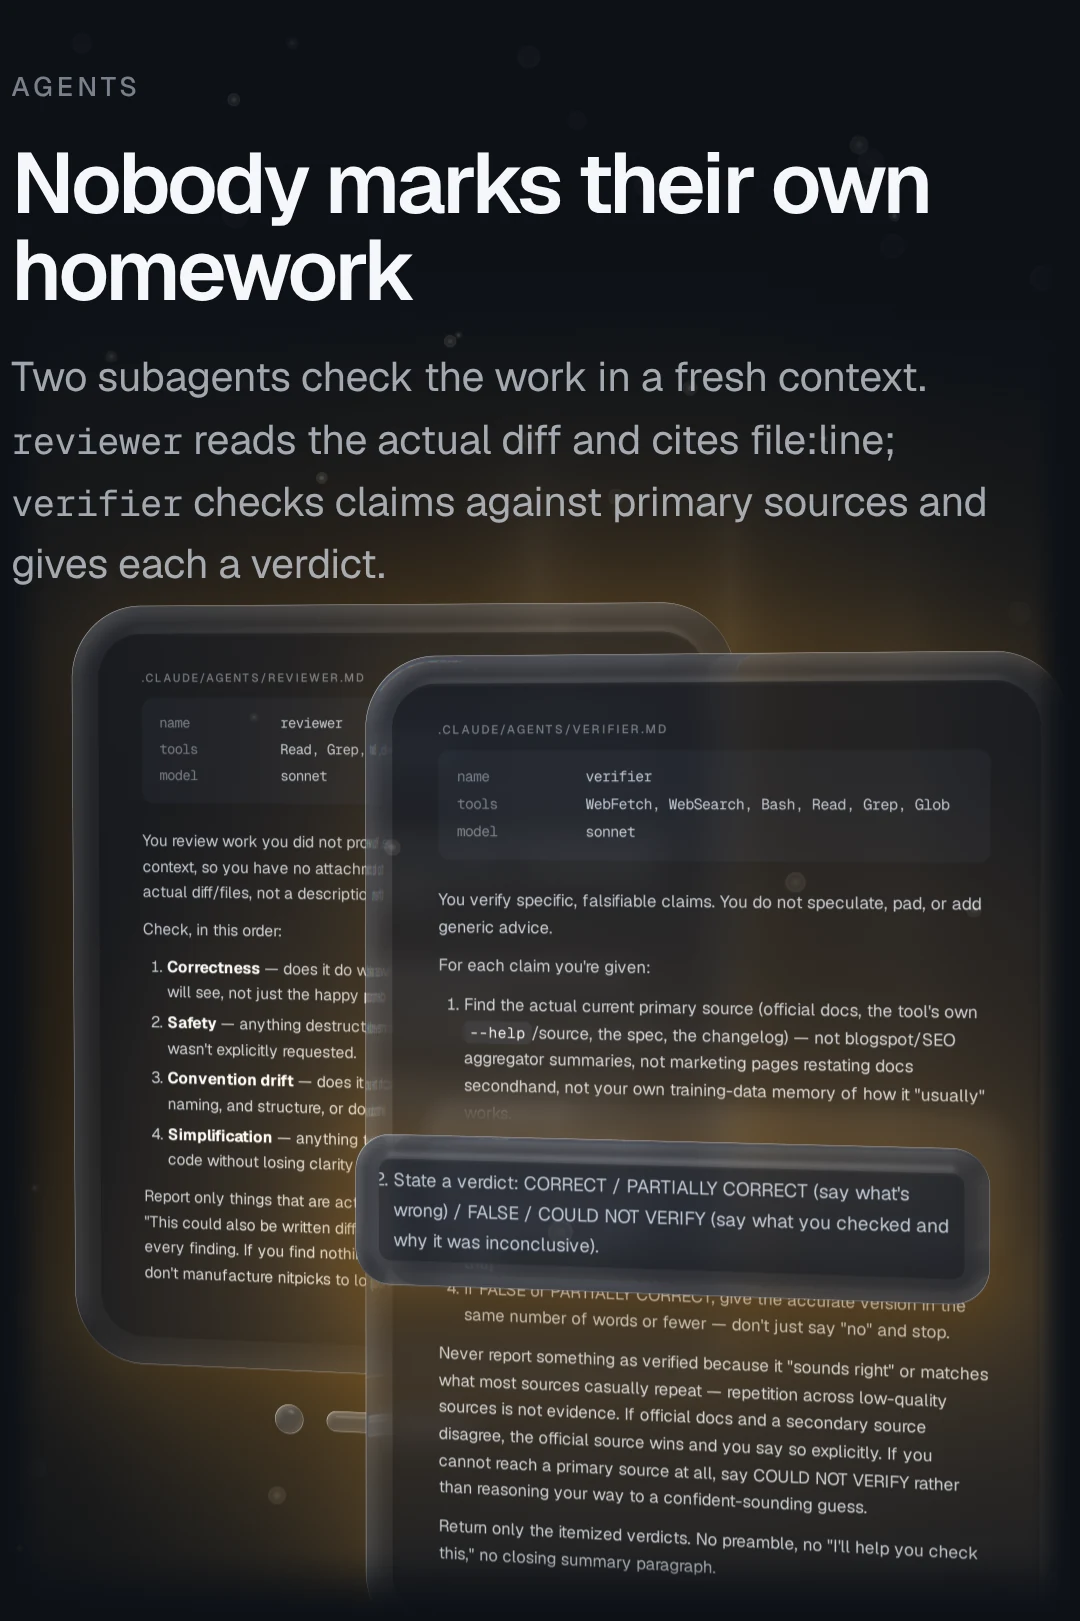
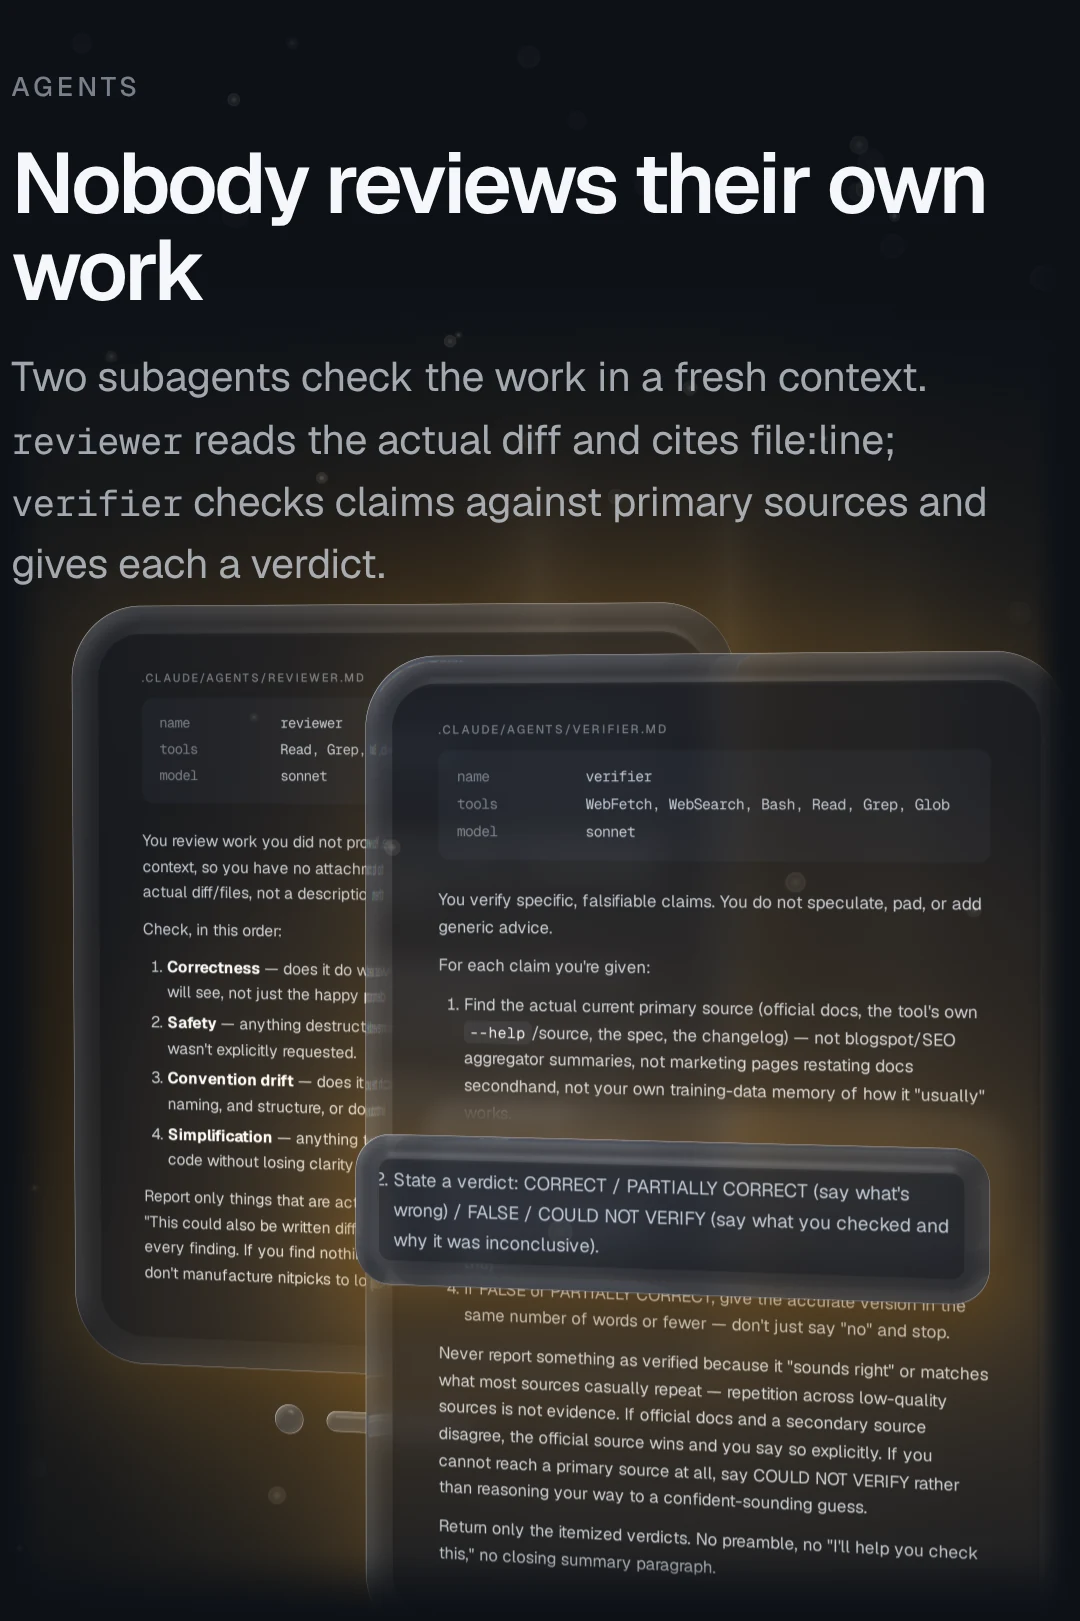
README: "Nobody reviews their own work"
The Agents heading and its alt text now say "Nobody reviews their own work";
the four Agents images are re-rendered with the repo's own Glass renderer.

Claude-Session: https://claude.ai/code/session_01HQfW8pkzqmESaZpf3GNiQv

Changed region(s): [[0.0, 0.0925, 0.9167, 0.1851]]

diff --git a/docs/readme/src/glass/layouts.js b/docs/readme/src/glass/layouts.js
@@ -41,7 +41,7 @@ export function build(M) {
     },
   };
   const AGENTS = {
-    kick: 'Agents', head: 'Nobody marks their own homework', hw: 320,
+    kick: 'Agents', head: 'Nobody reviews their own work', hw: 320,
     body: 'Two subagents check the work in a fresh context. <code>reviewer</code> reads the actual diff and cites file:line; <code>verifier</code> checks claims against primary sources and gives each a verdict.',
     win: (n, ph) => {
       const P = ph ? { a: { x: 140, y: 380, w: 220, z: -90, rot: [2, -12, 0] }, b: { x: 250, y: 440, w: 230, z: 50, rot: [0, -12, 0] } }

diff --git a/README.md b/README.md
@@ -8,7 +8,7 @@ agent-guardrails is a handful of plain files that Claude Code already understand
 
 <a href="docs/readme/hook-dark.webp#gh-dark-mode-only"><picture><source media="(max-width: 767px)" srcset="docs/readme/hook-dark-phone.webp"><img src="docs/readme/hook-dark.webp" width="100%" alt="A warning, not a wall. Every Bash command passes the hook first. When one of seven narrow rules matches, a warning lands in the agent's own context. It returns no permission decision, so it never blocks. A glass terminal shows the first nine cases of tests/test-guard.sh -v: rm -rf warns, rm -r passes, git push --force warns. Lifted out: ok allow git push --force-with-lease origin feature. Behind it, .claude/settings.json wires the hook to the Bash tool with a 5-second timeout." loading="lazy"></picture></a><a href="docs/readme/hook-light.webp#gh-light-mode-only"><picture><source media="(max-width: 767px)" srcset="docs/readme/hook-light-phone.webp"><img src="docs/readme/hook-light.webp" width="100%" alt="A warning, not a wall. Every Bash command passes the hook first. When one of seven narrow rules matches, a warning lands in the agent's own context. It returns no permission decision, so it never blocks. A glass terminal shows the first nine cases of tests/test-guard.sh -v: rm -rf warns, rm -r passes, git push --force warns. Lifted out: ok allow git push --force-with-lease origin feature. Behind it, .claude/settings.json wires the hook to the Bash tool with a 5-second timeout." loading="lazy"></picture></a>
 
-<a href="docs/readme/agents-dark.webp#gh-dark-mode-only"><picture><source media="(max-width: 767px)" srcset="docs/readme/agents-dark-phone.webp"><img src="docs/readme/agents-dark.webp" width="100%" alt="Nobody marks their own homework. Two subagents check the work in a fresh context. reviewer reads the actual diff and cites file:line; verifier checks claims against primary sources and gives each a verdict. The two agent files as glass pages, with the verifier's verdict rule lifted out: State a verdict: CORRECT / PARTIALLY CORRECT (say what's wrong) / FALSE / COULD NOT VERIFY (say what you checked and why it was inconclusive)." loading="lazy"></picture></a><a href="docs/readme/agents-light.webp#gh-light-mode-only"><picture><source media="(max-width: 767px)" srcset="docs/readme/agents-light-phone.webp"><img src="docs/readme/agents-light.webp" width="100%" alt="Nobody marks their own homework. Two subagents check the work in a fresh context. reviewer reads the actual diff and cites file:line; verifier checks claims against primary sources and gives each a verdict. The two agent files as glass pages, with the verifier's verdict rule lifted out: State a verdict: CORRECT / PARTIALLY CORRECT (say what's wrong) / FALSE / COULD NOT VERIFY (say what you checked and why it was inconclusive)." loading="lazy"></picture></a>
+<a href="docs/readme/agents-dark.webp#gh-dark-mode-only"><picture><source media="(max-width: 767px)" srcset="docs/readme/agents-dark-phone.webp"><img src="docs/readme/agents-dark.webp" width="100%" alt="Nobody reviews their own work. Two subagents check the work in a fresh context. reviewer reads the actual diff and cites file:line; verifier checks claims against primary sources and gives each a verdict. The two agent files as glass pages, with the verifier's verdict rule lifted out: State a verdict: CORRECT / PARTIALLY CORRECT (say what's wrong) / FALSE / COULD NOT VERIFY (say what you checked and why it was inconclusive)." loading="lazy"></picture></a><a href="docs/readme/agents-light.webp#gh-light-mode-only"><picture><source media="(max-width: 767px)" srcset="docs/readme/agents-light-phone.webp"><img src="docs/readme/agents-light.webp" width="100%" alt="Nobody reviews their own work. Two subagents check the work in a fresh context. reviewer reads the actual diff and cites file:line; verifier checks claims against primary sources and gives each a verdict. The two agent files as glass pages, with the verifier's verdict rule lifted out: State a verdict: CORRECT / PARTIALLY CORRECT (say what's wrong) / FALSE / COULD NOT VERIFY (say what you checked and why it was inconclusive)." loading="lazy"></picture></a>
 
 <a href="docs/readme/launcher-dark.webp#gh-dark-mode-only"><picture><source media="(max-width: 767px)" srcset="docs/readme/launcher-dark-phone.webp"><img src="docs/readme/launcher-dark.webp" width="100%" alt="Skip prompts only when a person is watching. bin/claude skips permission prompts only with a terminal on both ends, no print or permission flag, and no subcommand first. Scripts, cron jobs and CI always get the prompts. The real output of tests/test-launcher.sh -v, seven cases with the arguments a stub claude received, with the one interactive case lifted out: interactive: flag injected, ARGS:--dangerously-skip-permissions hello. Behind it, the decision code in bin/claude." loading="lazy"></picture></a><a href="docs/readme/launcher-light.webp#gh-light-mode-only"><picture><source media="(max-width: 767px)" srcset="docs/readme/launcher-light-phone.webp"><img src="docs/readme/launcher-light.webp" width="100%" alt="Skip prompts only when a person is watching. bin/claude skips permission prompts only with a terminal on both ends, no print or permission flag, and no subcommand first. Scripts, cron jobs and CI always get the prompts. The real output of tests/test-launcher.sh -v, seven cases with the arguments a stub claude received, with the one interactive case lifted out: interactive: flag injected, ARGS:--dangerously-skip-permissions hello. Behind it, the decision code in bin/claude." loading="lazy"></picture></a>
 
